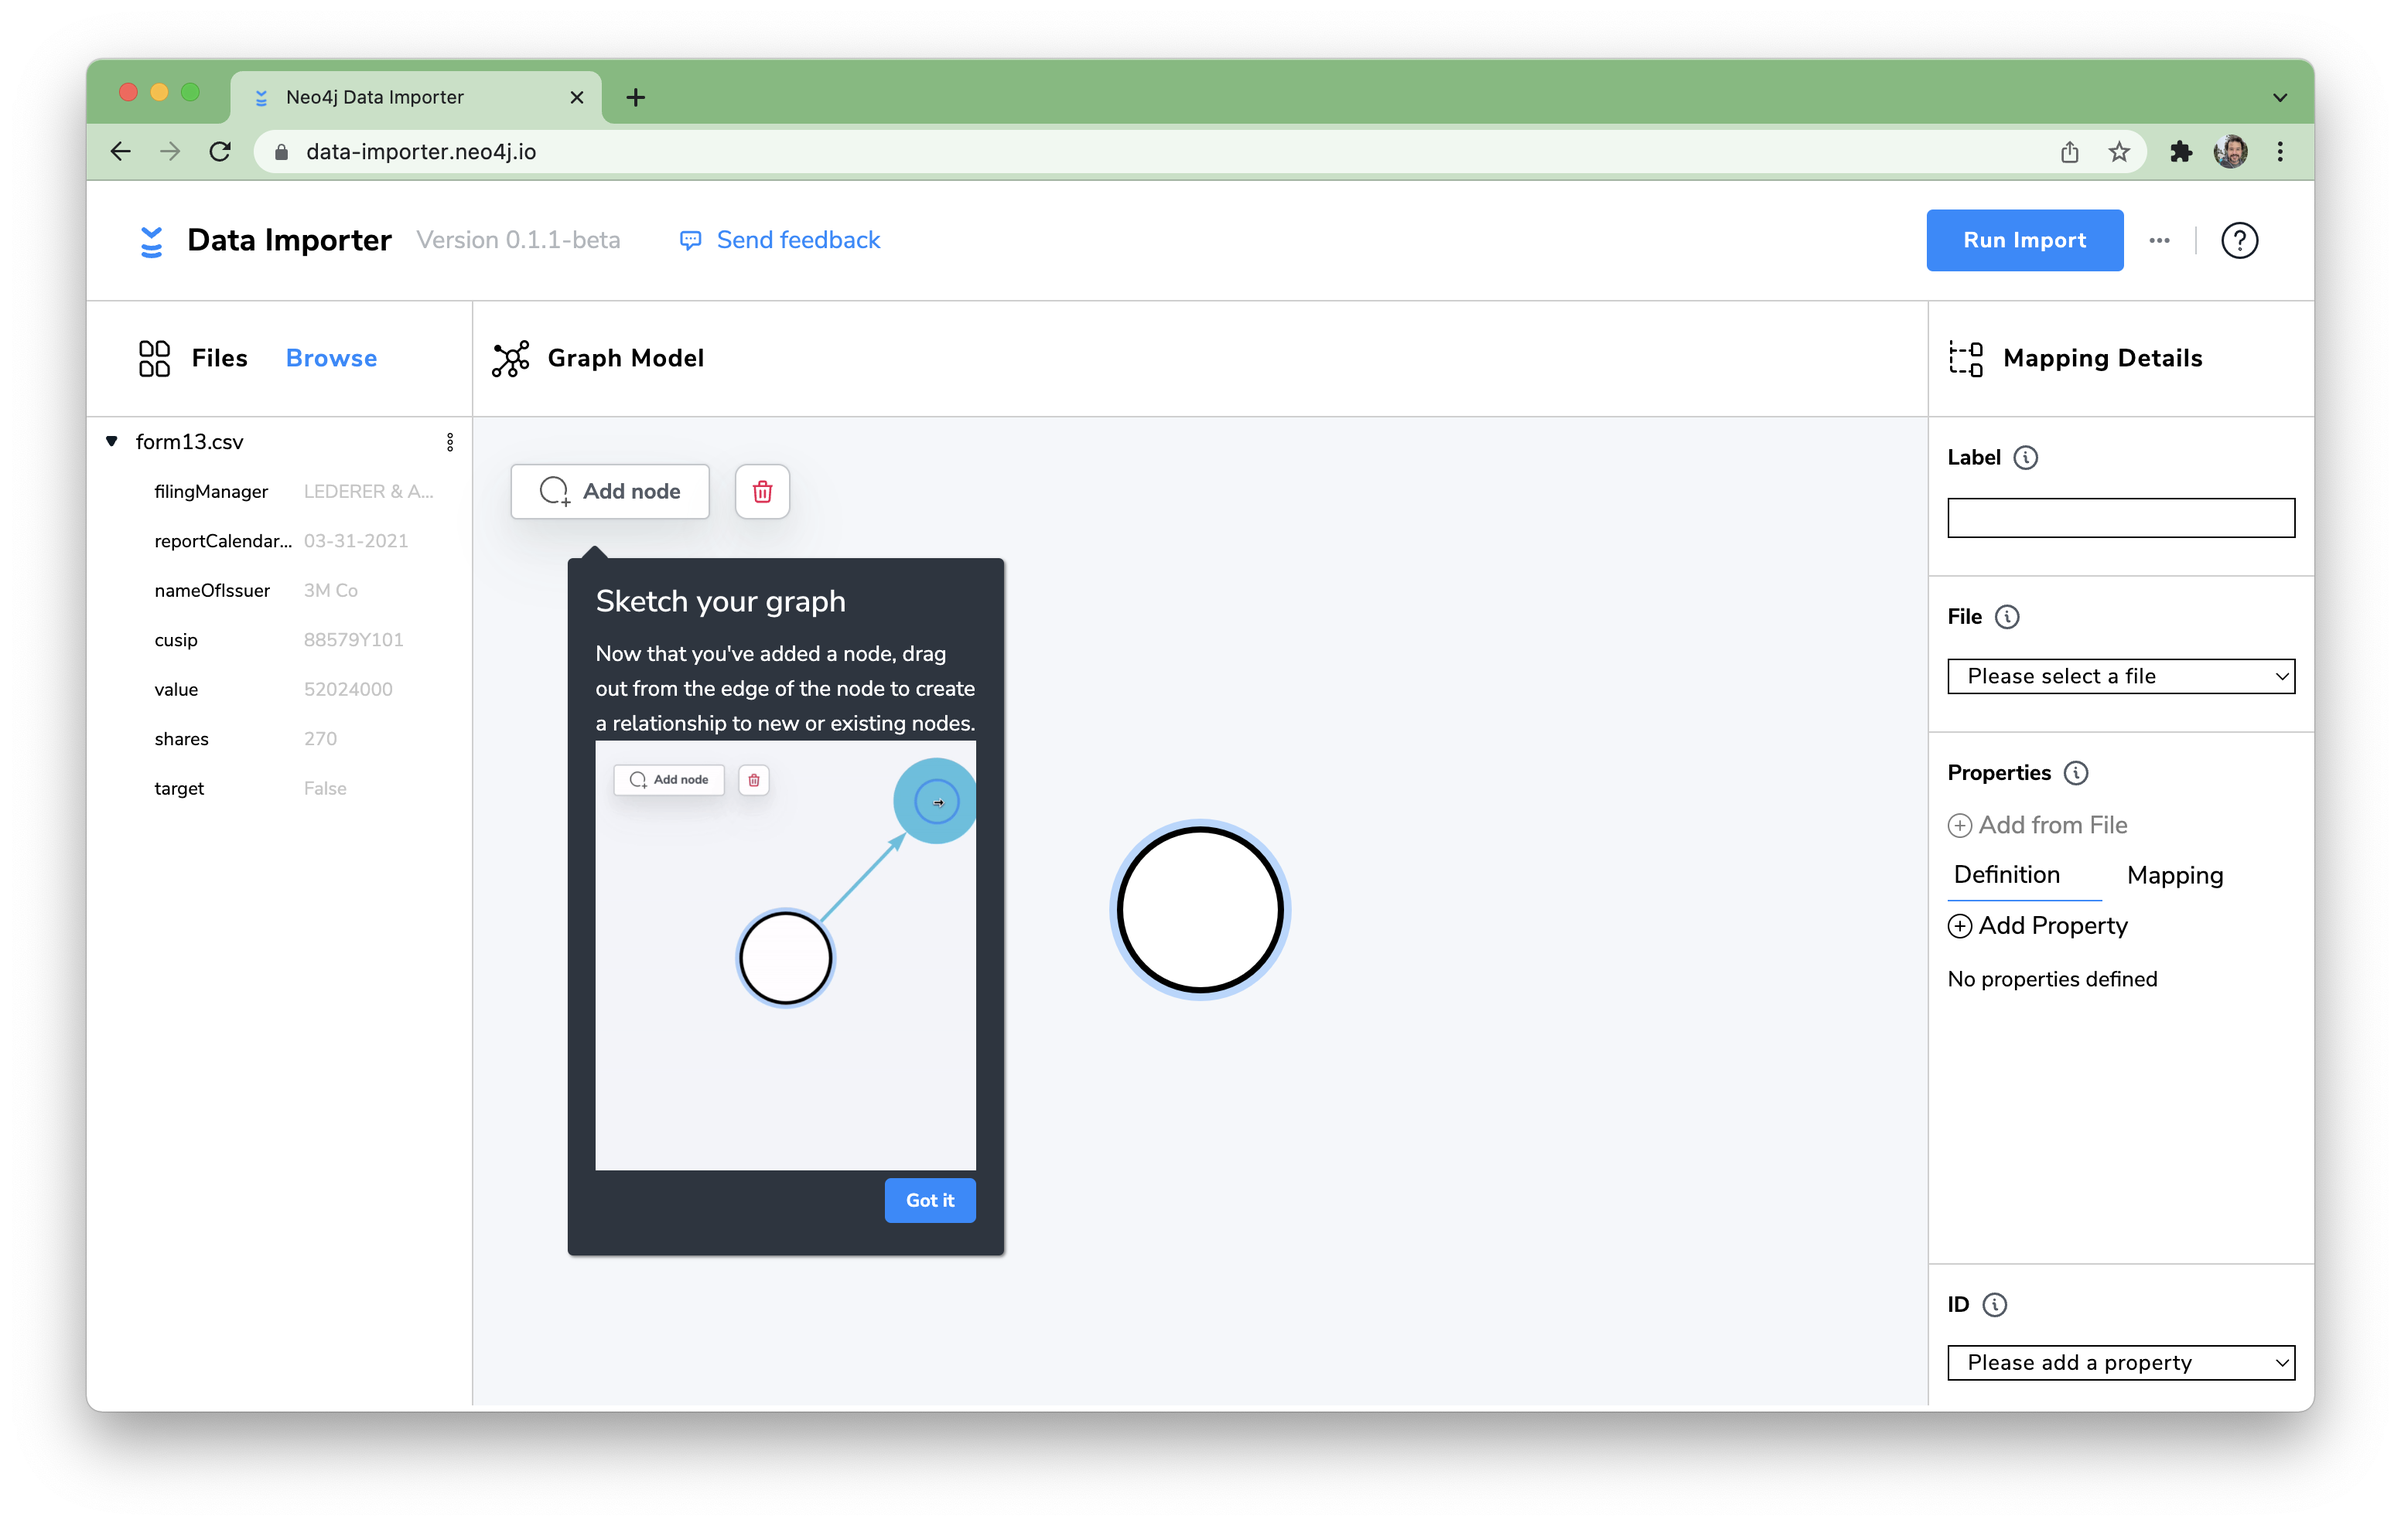
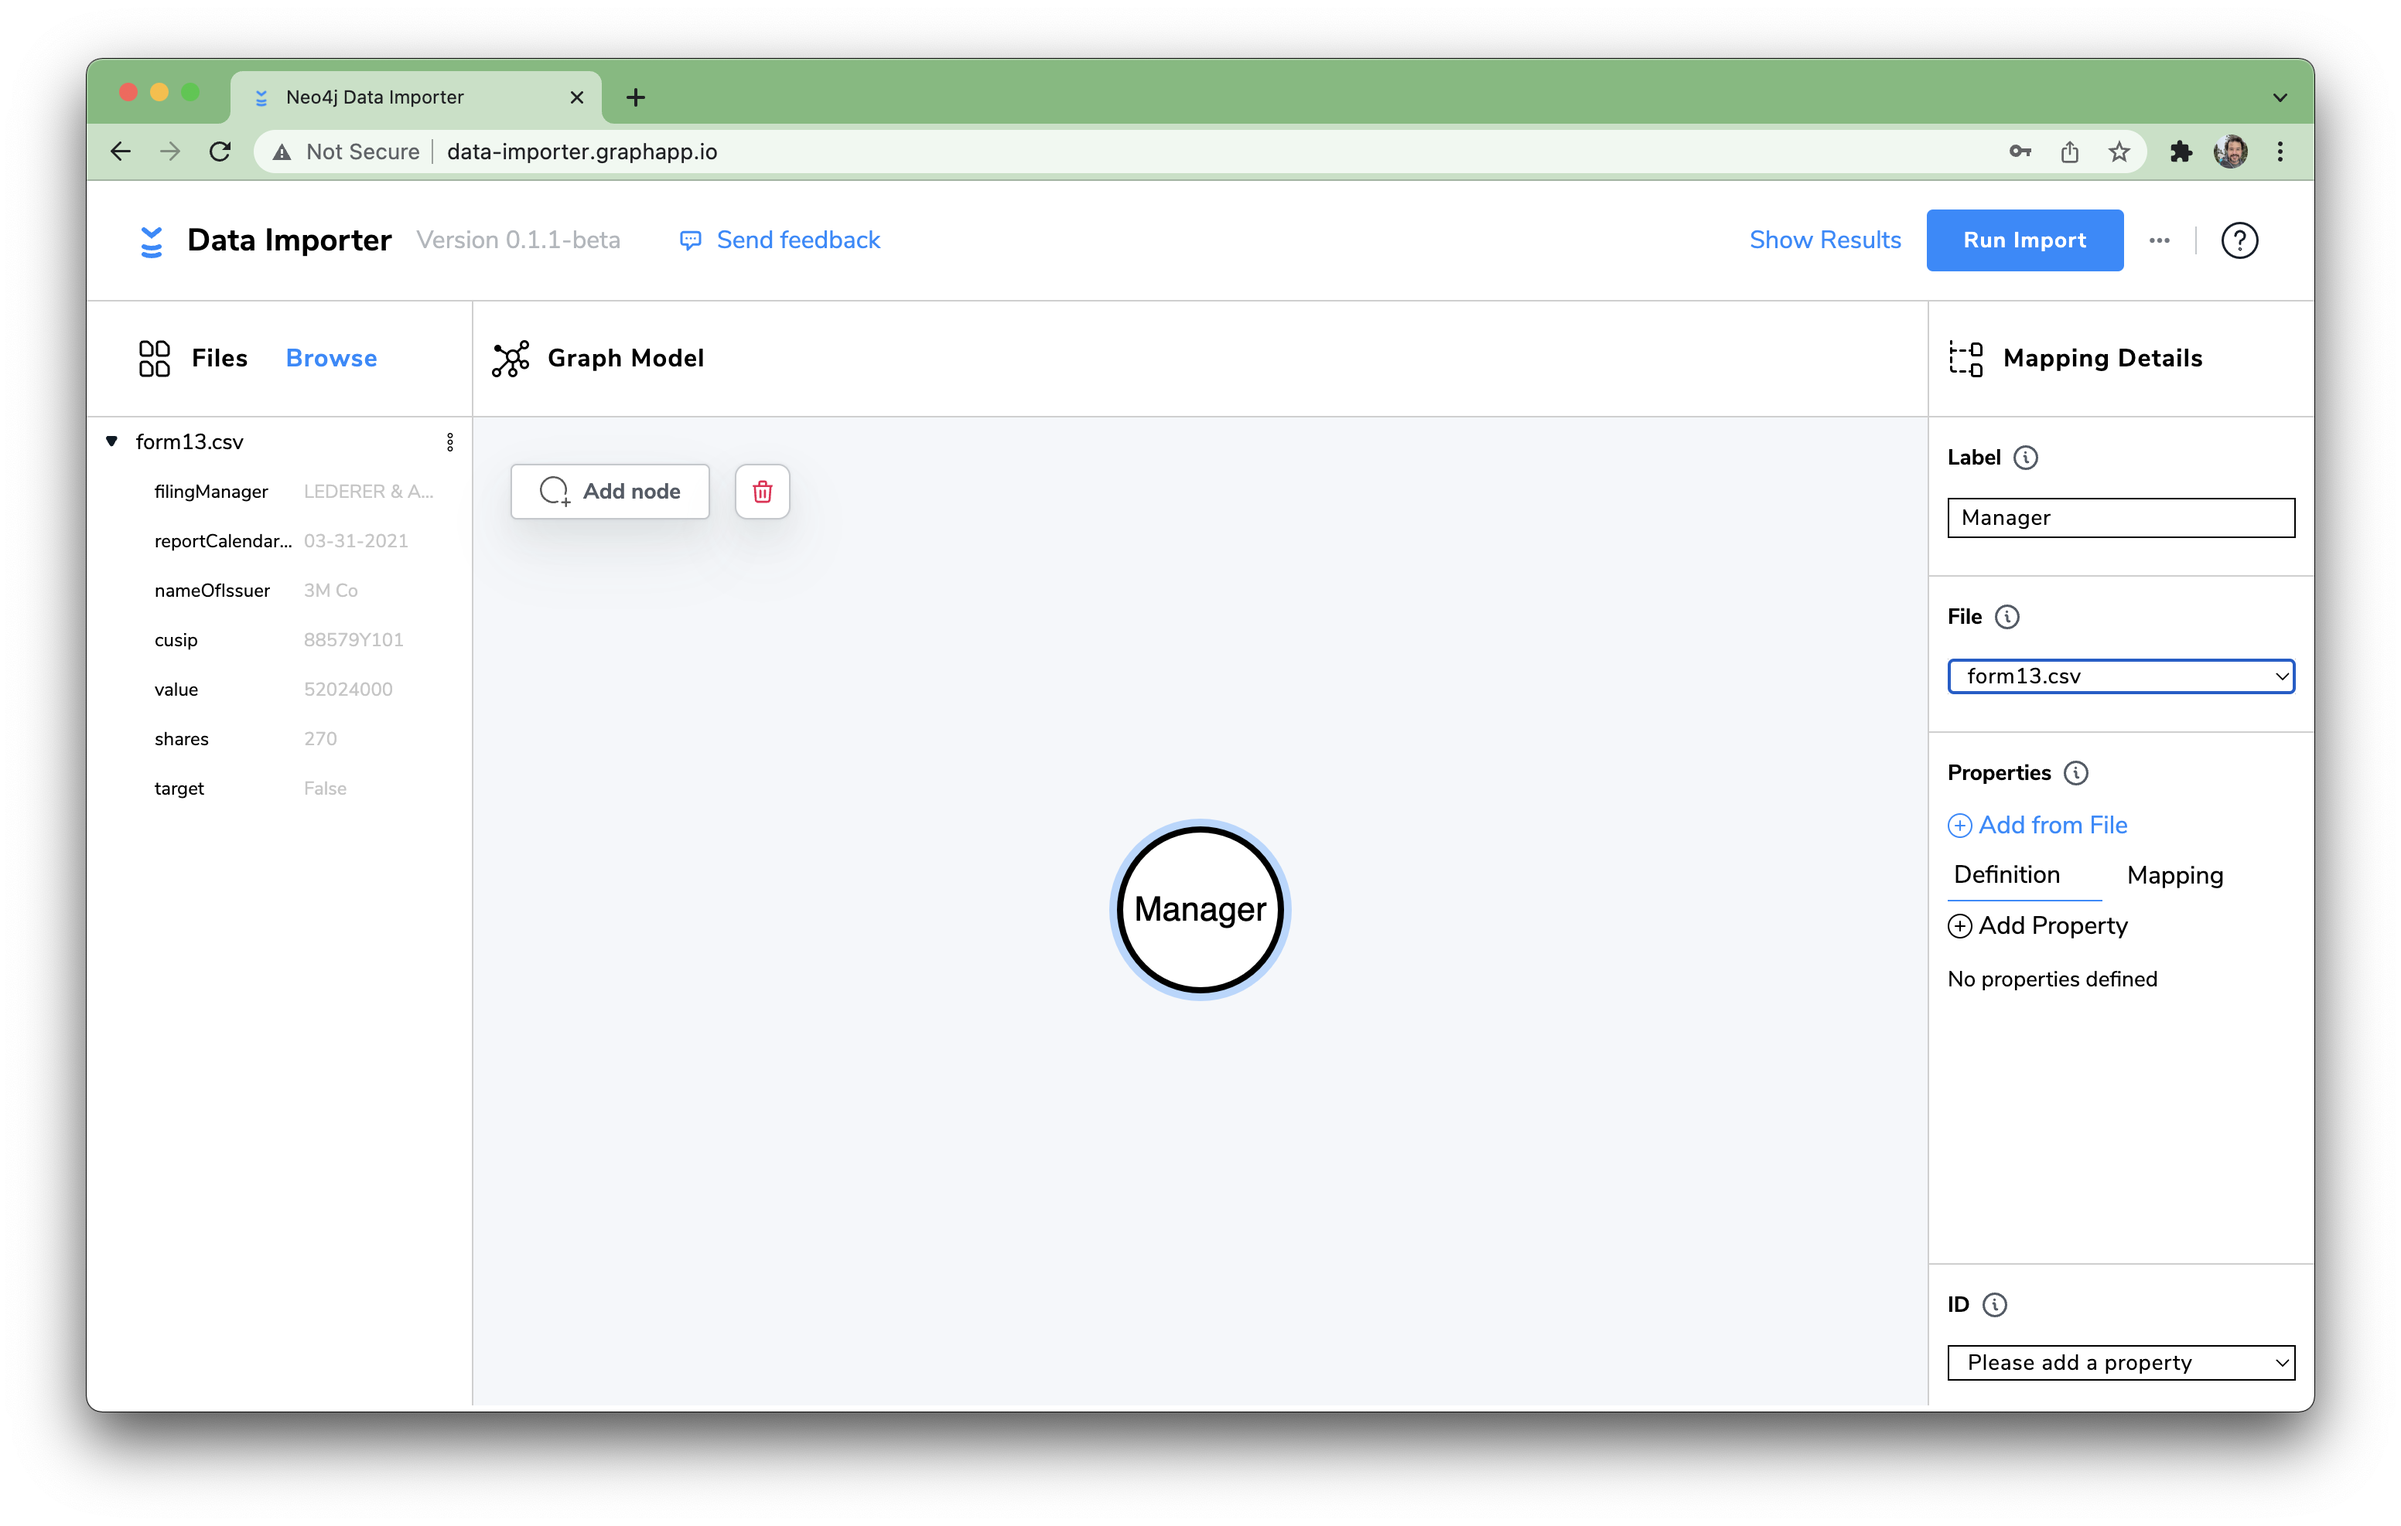
update images

diff --git a/Lab 3 - Moving Data/README.md b/Lab 3 - Moving Data/README.md
@@ -82,7 +82,7 @@ Of course, there's an even simpler solution.  The data importer will generate th
 
 Let's download the dataset by pointing a web browser [here](https://storage.googleapis.com/neo4j-datasets/form13/form13.csv).  As before, you may want to poke around the file just to see what's in it.  You'll notice the file has a new column in it, "target."  We're going to try to solve a supervised learning problem later, so this is our target.  It's true if a given holding increased in number of shares in the next quarter.  It's false if it shrank.  So, we're predicting if assset managers are going to expand or shrink their positions.
 
-Now let's fire up the data importer by navigating [here](http://data-importer.graphapp.io/).  Once that has loaded, click on "browse" and select the csv file we just downloaded.
+Now let's fire up the data importer by navigating [here](http://data-importer.graphapp.io/).  You may have to dismiss a few welcome dialogs.  Once you're at the main page, click on "browse" and select the csv file we just downloaded.
 
 ![](images/12-importer.png)
 
@@ -90,7 +90,7 @@ You'll see that the file has loaded from the menu on the left.  Now click on "ad
 
 ![](images/13-importer.png)
 
-We'll call this first node "Manager" and dismiss the help dialog about creating a relationship.  For "file," select "form13.csv"
+We'll call this first node "Manager." You may see a help dialog about creating a relationship that you can dismiss.  For "file," select "form13.csv"
 
 ![](images/14-addnode.png)
 
@@ -98,7 +98,7 @@ Now we're going to add a property as well.  Click on "Add from file."
 
 ![](images/15-addnode.png)
 
-Select "filingManager" and click "confirm."
+Select "filingManager" and click "confirm." Under "ID" in the bottom right, select "filingManager."
 
 ![](images/16-properties.png)
 
@@ -110,46 +110,48 @@ Now we're going to label the new node.  You'll want to set that as "Company," se
 
 ![](images/18-relationship.png)
 
-For the company, select "cusip," "nameOfIssuer" and click "confirm."
+For the company, select "cusip," "nameOfIssuer" and click "confirm."  Under "ID" select "cusip."
 
 ![](images/19-company.png)
 
-Our data model is getting pretty close.  The last thing we want to do is add detail to the relationship.  Click on the line between the two nodes. For "type" enter "Owns" and for the "File" select "form13.csv."
+Our data model is getting pretty close.  The last thing we want to do is add detail to the relationship.  Click on the line between the two nodes. For "type" enter "Owns" and for the "File" select "form13.csv."  For the "ID" on the relationship, select "filingManager" for "from" and "cusip" for "to."
 
 ![](images/20-relationship.png)
 
-That should give you a setup like the one below.  The last thing is to add some more properties to the relationship.  Click on "Add from file."  Then select "reportCalendarOrQuarter," "value," "shares," and "target."
+We need to add a few properties to the relationship.  Click "Add from File" and select "reportCalendarOrQuarter," "value," "shares" and "target."  Click "confirm."
 
 ![](images/21-relationship.png)
 
-The menu should look like this:
-
-![](images/22-relationship.png)
-
 Now we need to change the data type on a few of those properties.  Target should be a boolean.  Value and shares should both be float.  You can click the pencil icon next to each to edit them.
 
-![](images/23-relationship.png)
-
-At this point, you'll probably get a few warnings.  We need to specify that the ID for manager is "filingManager."
-
-![](images/24-id.png)
-
-Similarly, specify the ID for company as cusip.  For the relationship, set the from to filingManager and the to should be set to cusip.  
-
-![](images/25-fixed.png)
+![](images/22-types.png)
 
 Now our data model is all set.  We need to connect the importer up to our database.  To do so, click "Run Import" in the upper left.  
 
-![](images/26-connect.png)
+![](images/23-connect.png)
 
-That prompts for three fields.  The username is neo4j.  The password is the same as you entered when you deployed via marketplace, possibly "foo123."  
+That prompts for three fields.  The username is neo4j.  The password is the same as you entered when you deployed via marketplace, possibly "foo123."
 
 The host field will be the public DNS name of the EC2 instance we were working with earlier with a protocol and port added. A particular example is neo4j://ec2-44-202-197-32.compute-1.amazonaws.com:7687
 
 With all that filled in, click "Run."
 
-![](images/27-connect.png)
+![](images/24-connect.png)
 
-You'll then see a progress bar displayed as it runs.
+You'll then see a progress bar displayed as it runs.  Now may be a good time to grab a coffee.  Runtime is dependent on your internet connection as the file is uploading from your laptop.
 
-![](images/28-running.png)
+![](images/25-running.png)
+
+When complete, a summary of the import will be displayed.
+
+![](images/26-complete.png)
+
+Click "Show key query" and "Show load query."  We can now see the Cypher that the Data Importer generated for us.
+
+![](images/27-query.png)
+
+Our load is all done!  You can click "Review in Neo4j Browser" to get redirected to the Neo4j Browser and poke around.  Of course, we'll be doing that in the next lab!
+
+![](images/28-browser.png)
+
+Congratulations on setting up Neo4j on AWS, connecting to it and loading some data!
